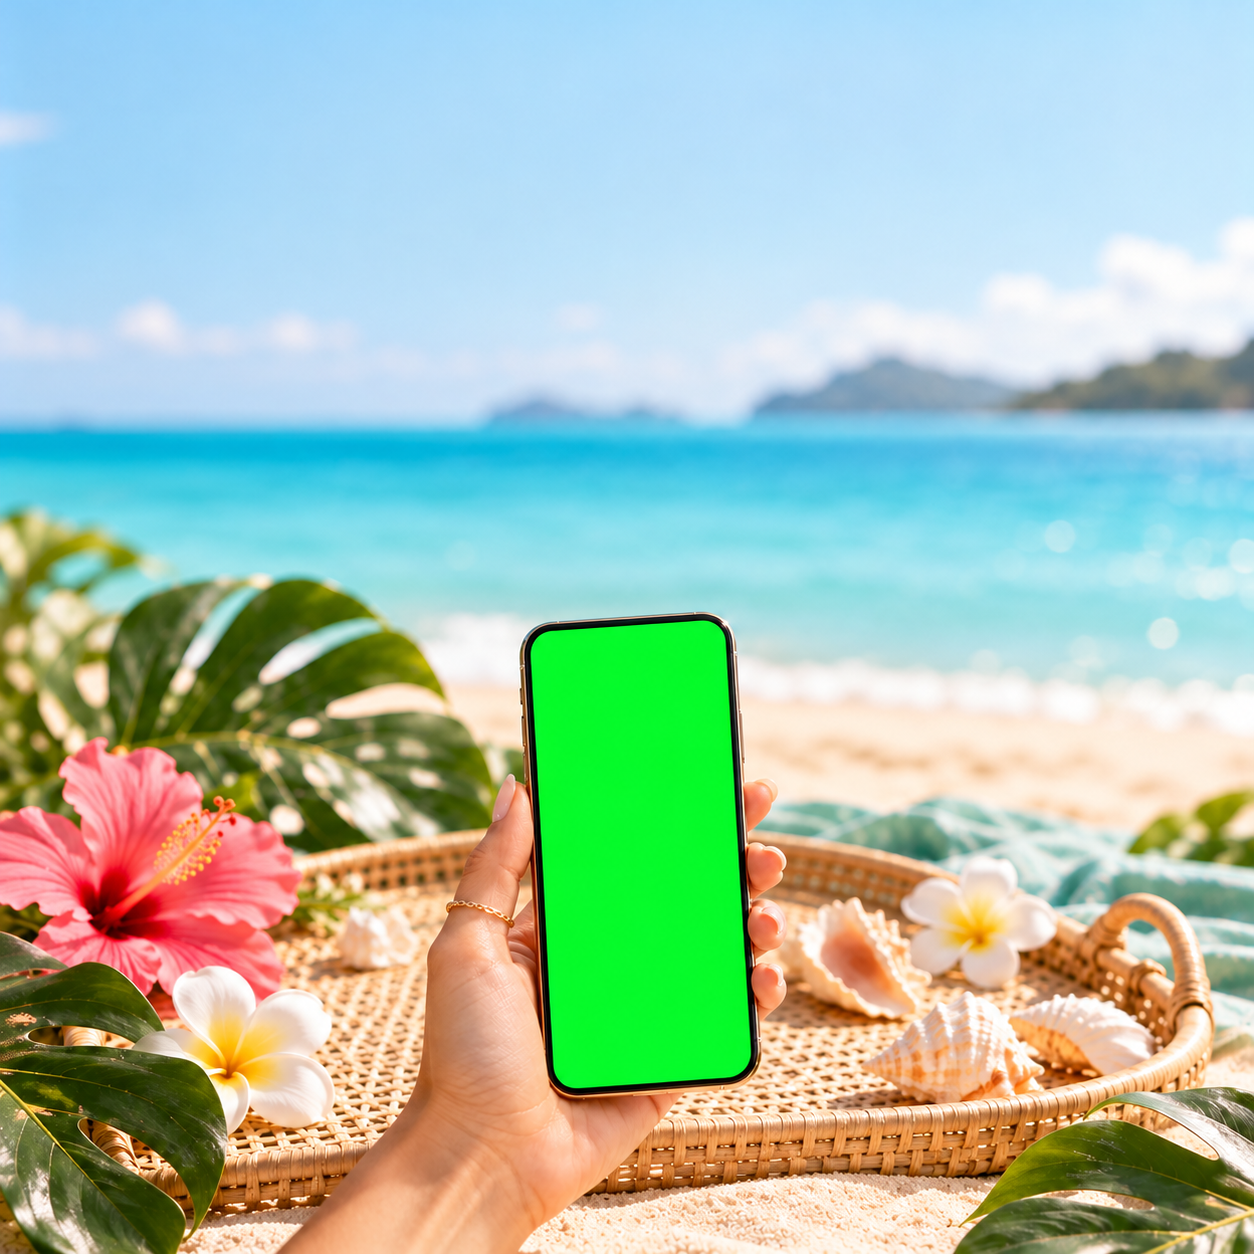
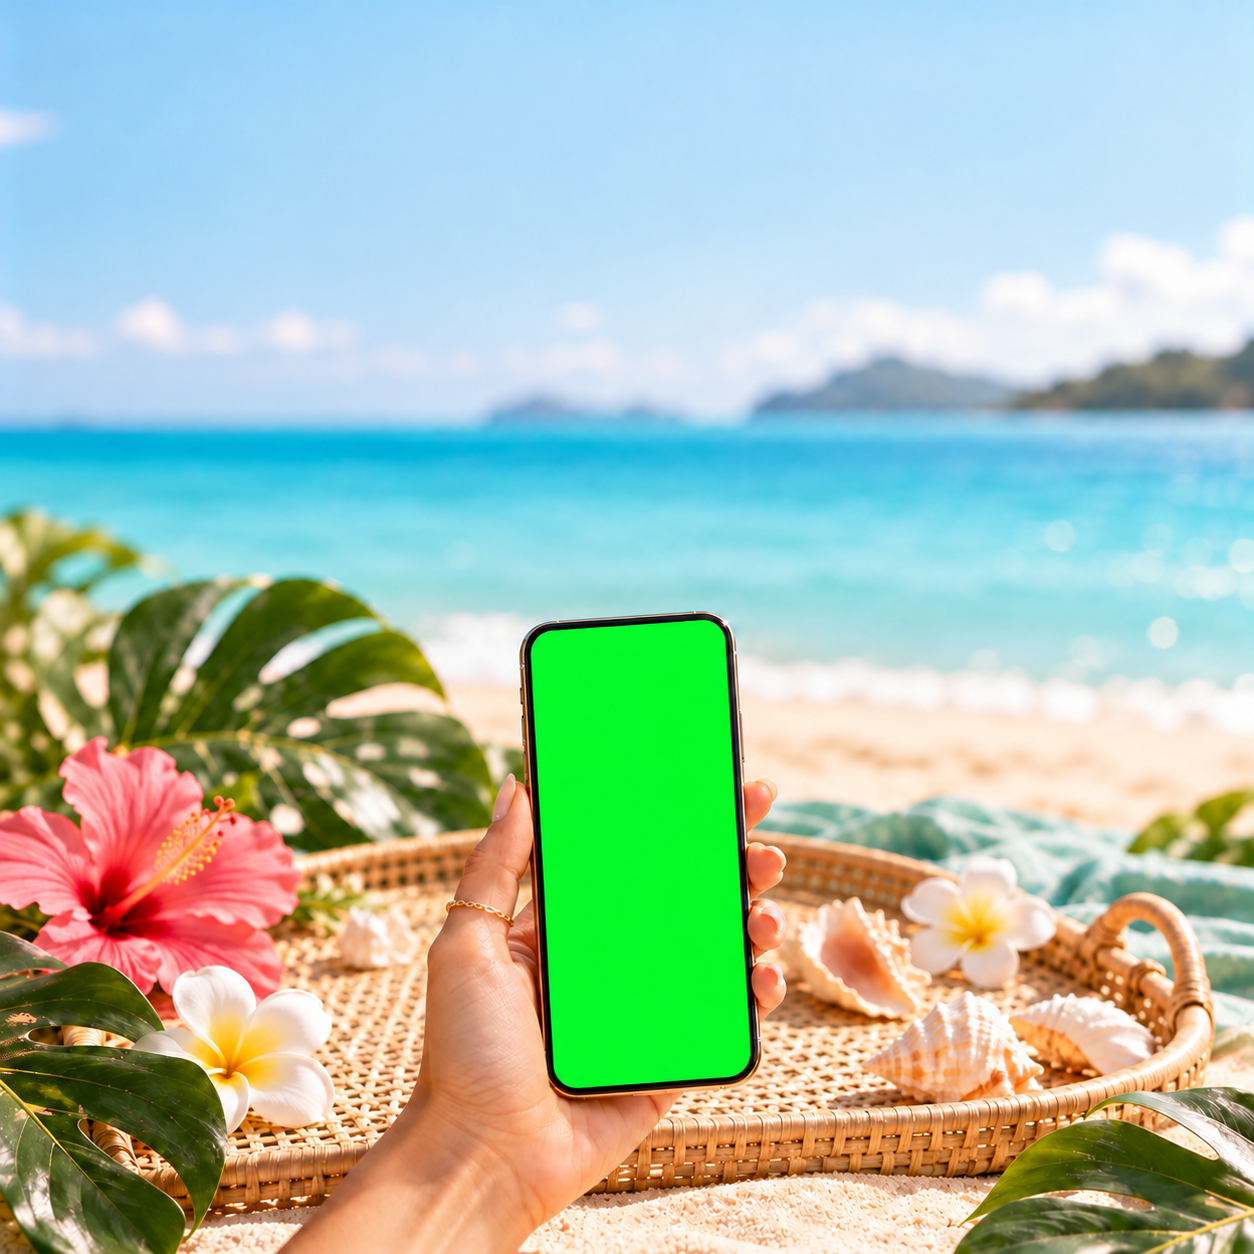
G812: görseller ve inceleme sonucu

diff --git a/gorevler/G812-mockup.md b/gorevler/G812-mockup.md
@@ -2,7 +2,7 @@
 id: G812
 baslik: Tasarım 12 Tropical Destination — Etsy ilan sahneleri (Paket 3: 5 fotoğraf gerçekliğinde sahne, ekranlar #00FF00)
 rol: gpt-gorsel
-durum: alindi
+durum: inceleme
 alan: gpt-gorsel-B
 oncelik: 2
 bagimli: []
@@ -27,12 +27,23 @@ Pilot: 01/03 (G801/G803).
 4. Ara kayıt: 3 sahnede bir commit + push. Kontrol: `python3 tools/kit_check.py collections/12_Tropical_Destination --paket 3`.
 
 ## Bitti sayılması için
-- [ ] 5 sahne doğru yolda; `kit_check --paket 3` 5/5 geçti
-- [ ] Sonuç'ta yeniden üretilenler ve emin olunmayan noktalar
+- [x] 5 sahne doğru yolda; `kit_check --paket 3` 5/5 geçti
+- [x] Sonuç'ta yeniden üretilenler ve emin olunmayan noktalar
 
 ## Sonuç
+
+- gpt-gorsel-B, PAKET 3 talimat bloğunu ve 3.1–3.5 İngilizce prompt'larını aynı sohbette, sırayla ve kelimesi kelimesine imagegen'e iletti.
+- Seçilen sahneler `collections/12_Tropical_Destination/assets/gpt/mockups/` altında: `cover_hand.png`, `three_phones.png`, `laptop_phone.png`, `flatlay_phone.png`, `hand_phone_edit.png`.
+- Kapak yeniden üretildi: `cover_hand_v2.png` telefonu alt yarıya almak ve üst başlık alanını genişletmek için; `cover_hand_v3.png` ekranın yeşil rengini düzeltmek için. Seçilen v3, sade `cover_hand.png` adına da kaydedildi. Diğer dört sahne ilk üretimden seçildi.
+- Görsel kontrolde ekranların dört köşesi açık; telefonlar birbirine binmiyor; parmak, yaprak, çiçek, kabuk ve kum ekrana taşmıyor. Yazı/logo görünmüyor; laptop tuşları boş. Kapakta üst bölüm sakin; flatlay'in sol üçte biri boş.
+- `python3 tools/kit_check.py collections/12_Tropical_Destination --paket 3`: **5/5 geçti**. Ekran sayıları sırayla 1, 3, 2, 1, 1; tüm dosyalar opak. Yataylar 1536×1024, kareler imagegen'in doğal çıktısı olan 1254×1254; hedef oranları sağlıyor.
+- İnceleme notu: imagegen, saf `#00FF00` talimatına ve kapaktaki ek renk düzeltmesine rağmen ekran içlerinde küçük RGB değişimleri üretti. Kit kontrolü yeşili toleransla kabul ediyor; **5/5 sonucu, her ekran pikselinin tam (0,255,0) olduğu anlamına gelmiyor**. Örneğin üç telefonun orta ekranında baskın renk (3,250,3), kapak v3'ün merkezinde (5,250,39). Piksel düzeyinde tam saf ve tek renk yeşil şartı karşılanmadı; bu fark incelemede dikkate alınmalı.
+- İki sahnede bir ara kayıt commit + push yapıldı (3.1–3.2, 3.3–3.4); her push öncesi `git pull --rebase origin main` çalıştırıldı. Ek önizleme, metrik veya rapor dosyası oluşturulmadı.
 
 ## Günlük
 - 2026-10-14 alindi: gpt-gorsel-B
 - 2026-10-13 blokaj: K22 (kullanıcı, 2026-10-13): videodan çıkıldı, ürün yalnız mobil öncelikli website. Yeni website standardı pilotla (G035) belirlenince yeniden tanımlanacak
 - 2026-10-14 yeniden tanımlandı: telefon/laptop mockup'ı yerine 5 ilan sahnesi (`tools/paket3_sahne.py`; pilot G801/G803)
+- 2026-10-14 ara kayıt: gpt-gorsel-B, 3.1–3.2 sahneleri commit + push edildi.
+- 2026-10-14 ara kayıt: gpt-gorsel-B, 3.3–3.4 sahneleri commit + push edildi.
+- 2026-10-14 bitti, incelemeye gönderildi: gpt-gorsel-B; 5/5 kit kontrolü geçti, tam saf #00FF00 piksel şartındaki sapma Sonuç'a kaydedildi.
